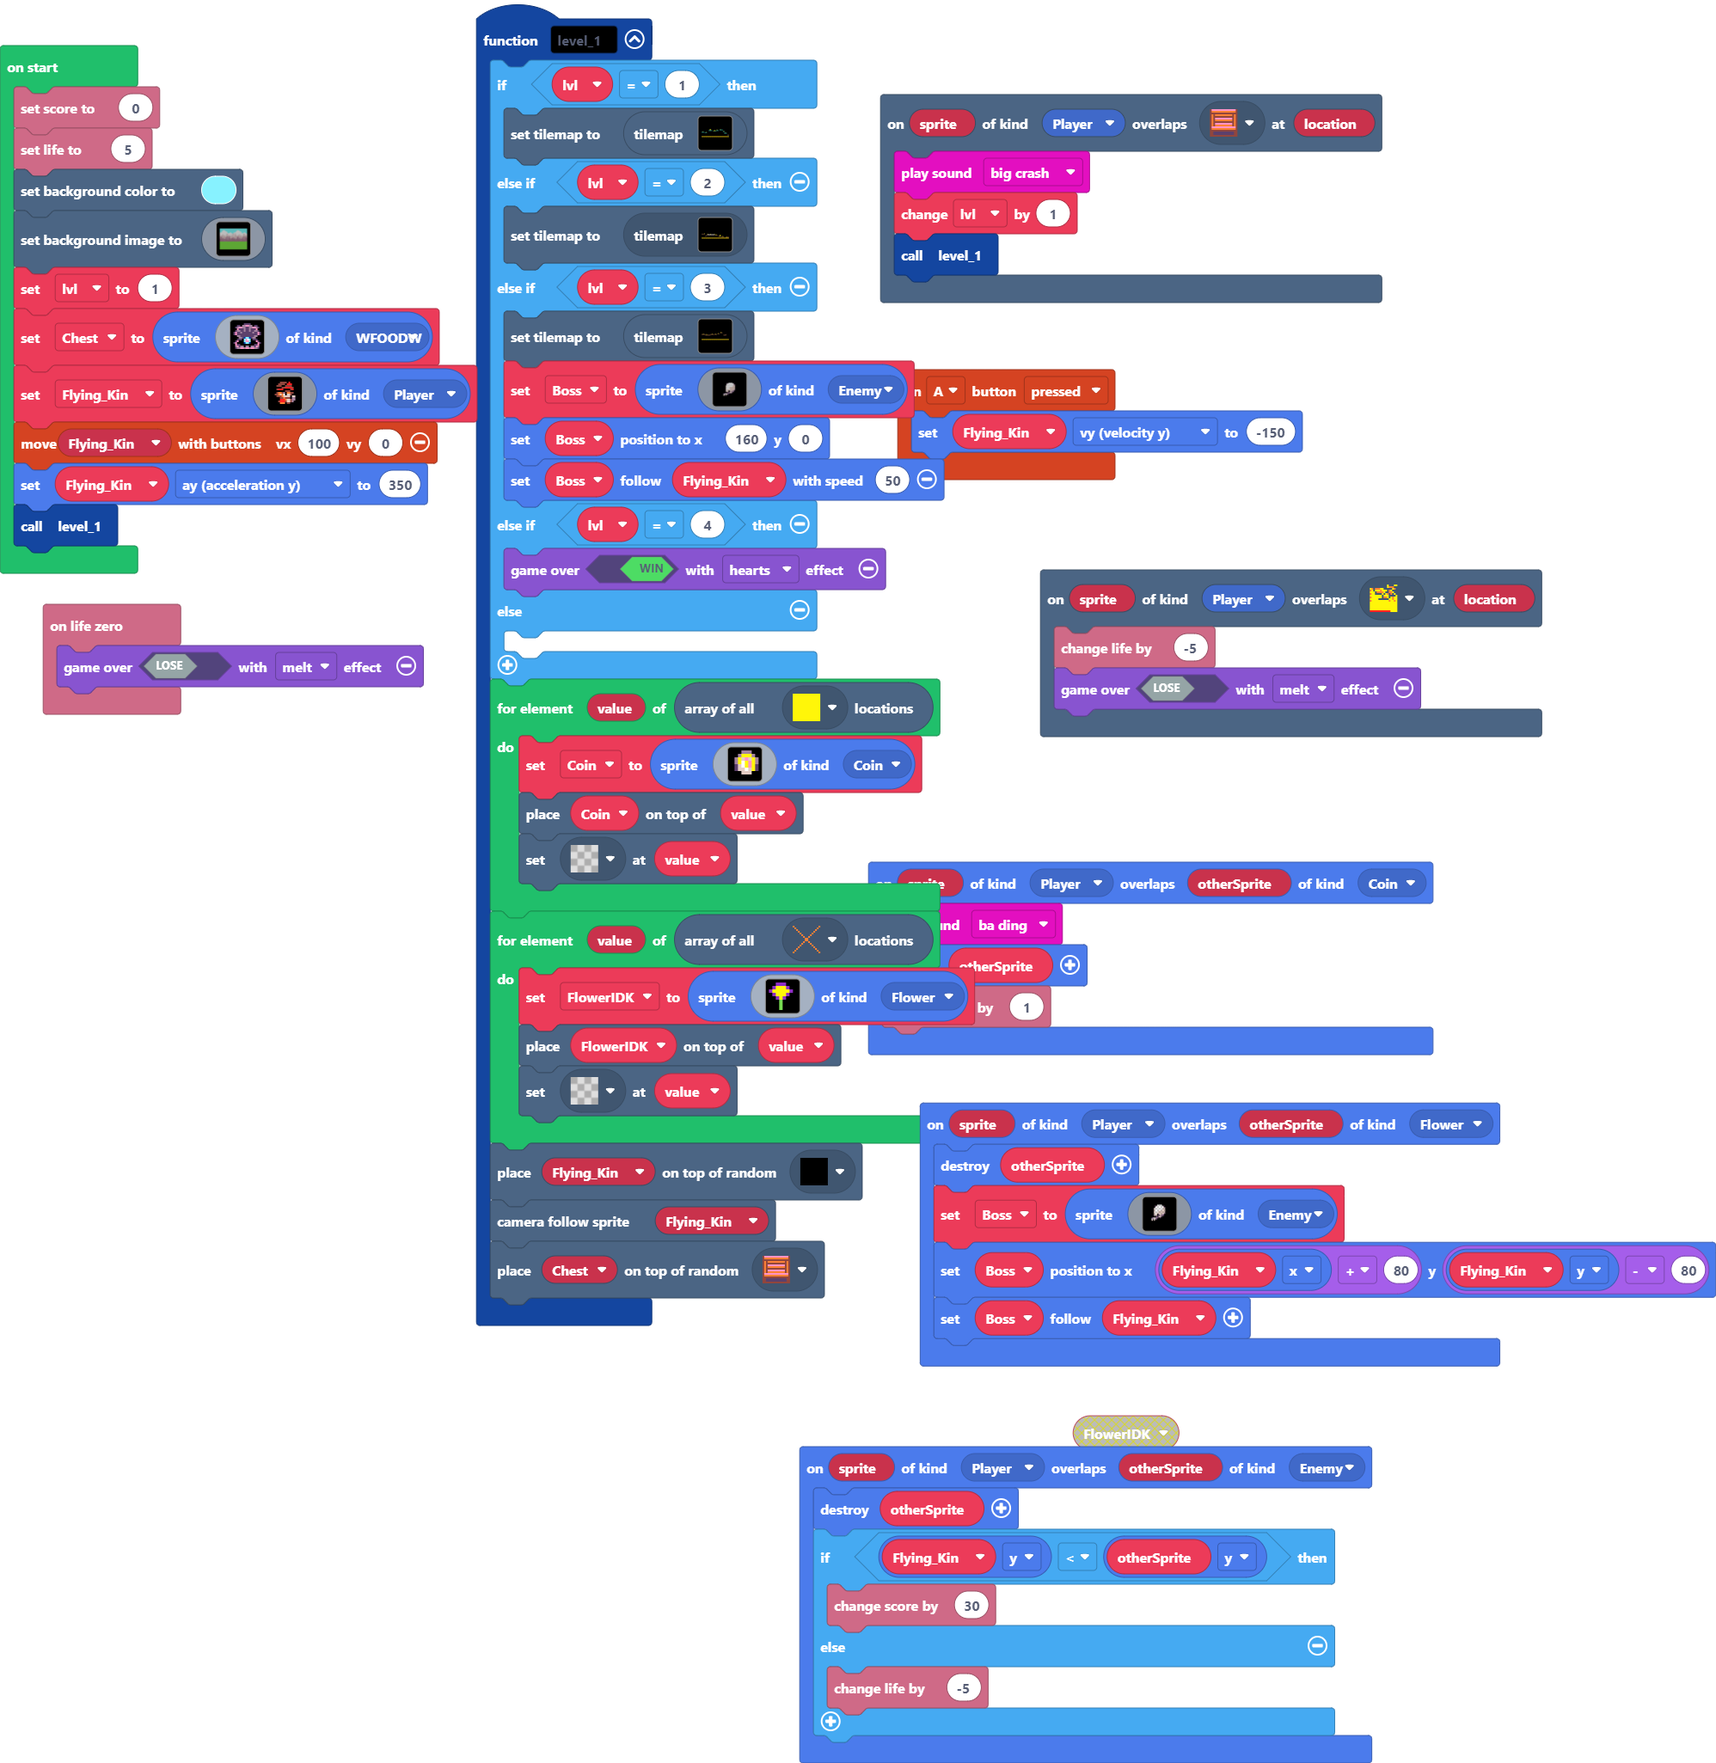
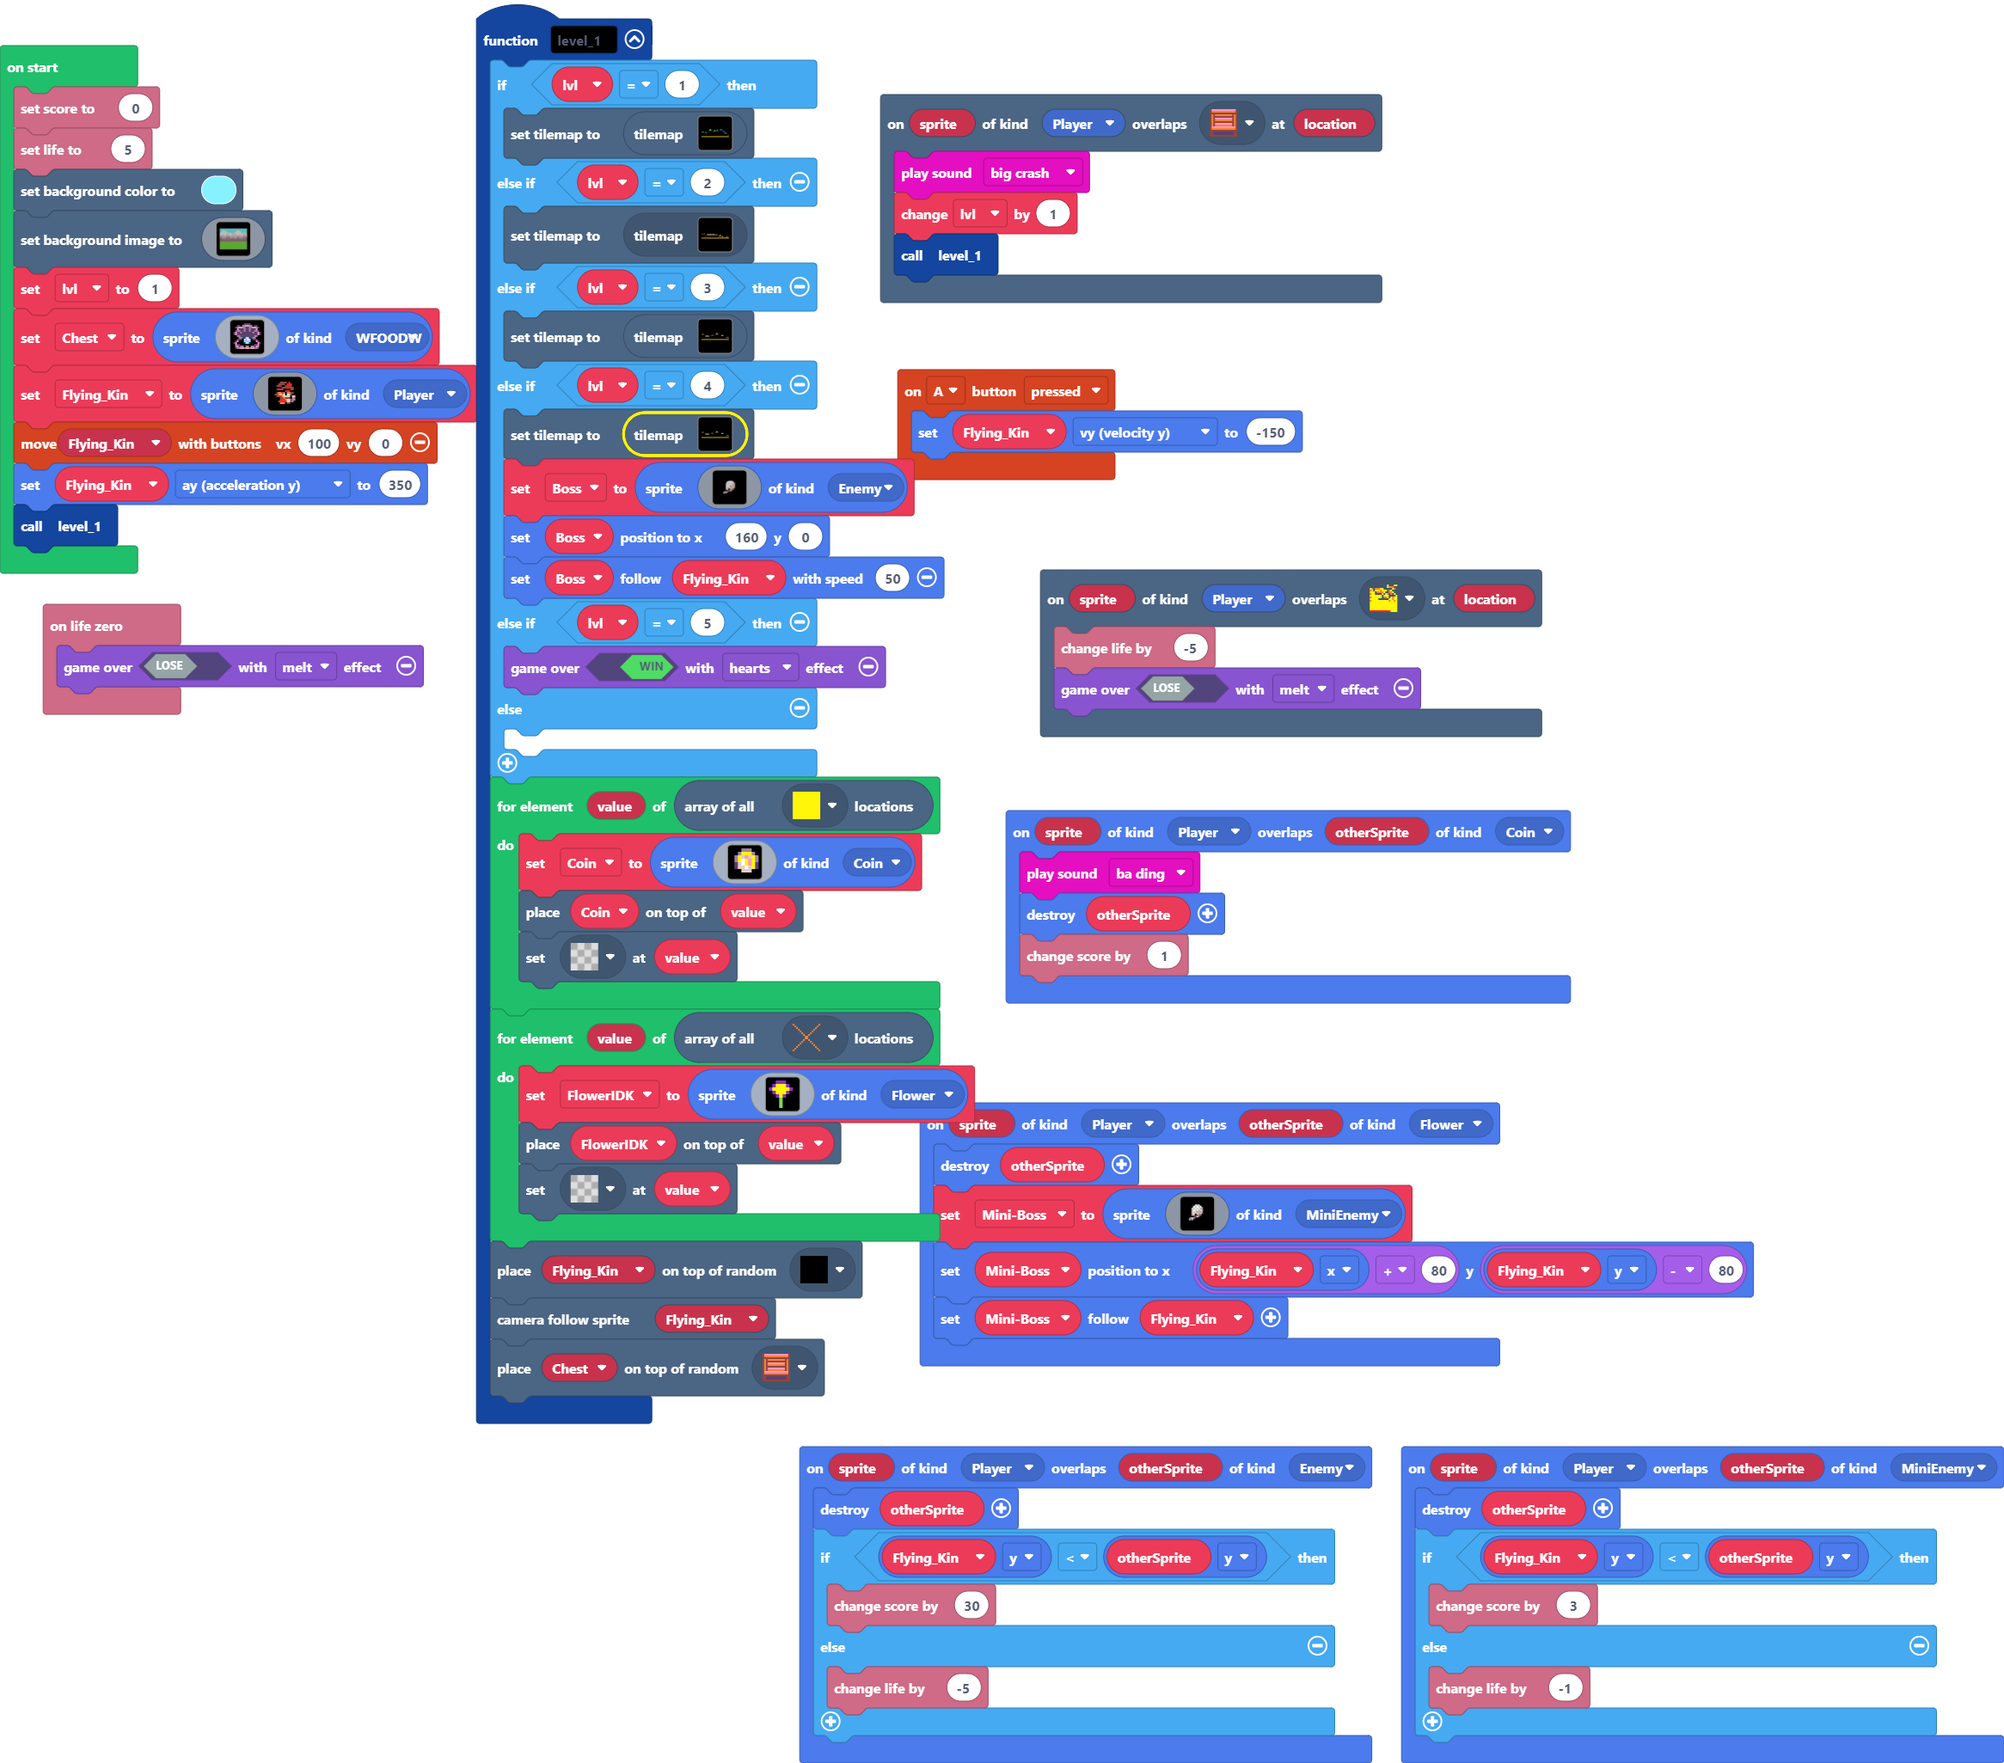
More Maps

diff --git a/tilemap.g.ts b/tilemap.g.ts
@@ -211,25 +211,6 @@ namespace myTiles {
 . . . . . . . . . . . . . . . . 
 . . . . . . . . . . . . . . . . 
 `, [myTiles.transparency16], TileScale.Sixteen);
-            case "level6":
-            case "level6":return tiles.createTilemap(hex`320010000000000000000000000000000000000000000000000000000000000000000000000000000000000000000000000000000000000000000000000000000000000000000000000000000000000000000000000000000000000000000000000000000000000000000000000000000000000000000000000000000000000000000000000000000000000000000000000000000000000000000000000000000000000000000000000000000000000000000000000000000000000000000000000000000000000000000000010000000000000000000000000000000000000000000000000000000000000000000000000000000000000000000000000000000000000000000000000000000000000000000000000000000000000000000000000000000000000000000000000000000000000000000000000000000000000000000000000000000000000000000000000000000000000000000000000000000000000000000007000000000000000000000000000000000000000000000000000000000000000000000000000000000000000002020202020200000000000700000000070000000000000700000000000000000000000000000000000000000000000000000000000000000000000003040404040404040404040404040000070000000000000000000000000000000000000000000000000000000000000000030000000000000000000000000000000202020200000000070700000000000000000000000000000000000000000000000300000000000000000000000000000000000000000000000007070000000000000000000000000000000000000000000003000000000000000000000000000000000000000000000002020202000000070000000000000000000000000000000000000000000000000000000000000000000000000000000000000000000000020202020200000000070000050000000000000000000000000000000000000000000000000000000000000000000000000000000000000000000202020202000606060606060606060606060606060606060606060606060606060606060606060606060606060606060606060606060606`, img`
-..................................................
-..................................................
-..................................................
-..................................................
-..................................................
-..................................................
-..................................................
-..................................................
-222222............................................
-..........22222222222222..........................
-.........2...............2222.....................
-........2.........................................
-.......2.......................2222...............
-....................................22222.........
-............................................22222.
-..................................................
-`, [myTiles.transparency16,myTiles.tile2,myTiles.tile3,myTiles.tile4,myTiles.tile6,myTiles.tile1,myTiles.tile5,myTiles.tile7], TileScale.Sixteen);
             case "level14":
             case "level14":return tiles.createTilemap(hex`1000100000000000000000000000000000000000000000000000000000000000000000000000000000000000000000000000000000000000000000000000000000000000000000000000000000000000000000000000000000000000000000000000000000000000000000000000000000000000000000000000000000000000000000000000000000000000000000000000000000000000000000000000000000000000000000000000000000000000000000000000000000000000000000000000000000000000000000000000000000000000000000000000000000000000000000000000000000000000000000000000000000000000000000000000000000000000`, img`
 . . . . . . . . . . . . . . . . 
@@ -268,25 +249,63 @@ namespace myTiles {
 ..................................................
 ..................................................
 `, [myTiles.transparency16,sprites.castle.tileDarkGrass3,myTiles.tile1,myTiles.tile2,sprites.builtin.forestTiles0,myTiles.tile5,myTiles.tile7], TileScale.Sixteen);
+            case "level6":
+            case "level6":return tiles.createTilemap(hex`320010000000000000000000000000000000000000000000000000000000000000000000000000000000000000000000000000000000000000000000000000000000000000000000000000000000000000000000000000000000000000000000000000000000000000000000000000000000000000000000000000000000000000000000000000000000000000000000000000000000000000000000000000000000000000000000000000000000000000000000000000000000000000000000000000000000000000000000010000000000000000000000000000000000000000000000000000000000000000000000000000000000000000000000000000000000000000000000000000000000000000000000000000000000000000000000000000000000000000000000000000000000000000000000000000000000000000000000000000000000000000000000000000000000000000000000000000000000000000000007000000000000000000000000000000000000000000000000000000000000000000000000000000000000000002020202020200000000000708000000070000000800000700000000000000000000000000000000000000000000000000000000000000000000000003040404040404040404040404040000070008000000000000000000000000000000000000000000000000000000000000030000000000000000000000000000000202020200000000070700000000000000000000000000000000000000000000000300000000000000000000000000000000000000000000000007070000000000000000000000000000000000000000000003000000000000000000000000000000000000000000000002020202000008070000000000000000000000000000000000000000000000000000000000000000000000000000000000000000000000020202020200000000070800050000000000000000000000000000000000000000000000000000000000000000000000000000000000000000000202020202000606060606060606060606060606060606060606060606060606060606060606060606060606060606060606060606060606`, img`
+..................................................
+..................................................
+..................................................
+..................................................
+..................................................
+..................................................
+..................................................
+..................................................
+222222............................................
+..........22222222222222..........................
+.........2...............2222.....................
+........2.........................................
+.......2.......................2222...............
+....................................22222.........
+............................................22222.
+..................................................
+`, [myTiles.transparency16,myTiles.tile2,myTiles.tile3,myTiles.tile4,myTiles.tile6,myTiles.tile1,myTiles.tile5,myTiles.tile7,myTiles.tile8], TileScale.Sixteen);
+            case "level15":
+            case "level15":return tiles.createTilemap(hex`1000100000000000000000000000000000000000000000000000000000000000000000000000000000000000000000000000000000000000000000000000000000000000000000000000000000000000000000000000000000000000000000000000000000000000000000000000000000000000000000000000000000000000000000000000000000000000000000000000000000000000000000000000000000000000000000000000000000000000000000000000000000000000000000000000000000000000000000000000000000000000000000000000000000000000000000000000000000000000000000000000000000000000000000000000000000000000`, img`
+. . . . . . . . . . . . . . . . 
+. . . . . . . . . . . . . . . . 
+. . . . . . . . . . . . . . . . 
+. . . . . . . . . . . . . . . . 
+. . . . . . . . . . . . . . . . 
+. . . . . . . . . . . . . . . . 
+. . . . . . . . . . . . . . . . 
+. . . . . . . . . . . . . . . . 
+. . . . . . . . . . . . . . . . 
+. . . . . . . . . . . . . . . . 
+. . . . . . . . . . . . . . . . 
+. . . . . . . . . . . . . . . . 
+. . . . . . . . . . . . . . . . 
+. . . . . . . . . . . . . . . . 
+. . . . . . . . . . . . . . . . 
+. . . . . . . . . . . . . . . . 
+`, [myTiles.transparency16], TileScale.Sixteen);
             case "level7":
-            case "level7":return tiles.createTilemap(hex`320010000000000000000000000000000000000000000000000000000000000000000000000000000000000000000000000000000000000000000000000000000000000000000000000000000000000000000000000000000000000000000000000000000000000000000000000000000000000000000000000000000000000000000000000000000000000500000000000000000000000000000100000000000000000000000000000000000000000000000000000000000000000002020202000000000000000000000000000000000000000000000000000000000000000000000000000000000000050000000000000000000000000000000000000000000005000000000000000000000000000000050000000000050000000202020200000000000000000000000000000000000202020202020200000500000000000002020202020202000202020200000000000000000000000000000000040000000000000000000000000202020202020202020000000000000000000000000000000000000000000000000202020202000000000000000000000000000000000000000000000000000000000000000000000000000000000000000000000000000000000000000000000000000000000000000000000000000000000000000000000000000000000000000000000000000000000000000000000000000000000000000000000000000000000000000000000000000000000000000000000000000000000000000000000000000000000000000000000000000000000000000000000000000000000000000000000000000000000000000000000000000000000000000000000000000000000000000000000000000000000000000000000000000000000000000000000000000000000000000000000000000000000000000000000000000000000000000000000000000000000000000000000000000000000000000000000000000000000000000000000000000000000000000000000000000000000000000000000000000000000000000303030303030303030303030303030303030303030303030303030303030303030303030303030303030303030303030303`, img`
-..................................................
-..................................................
-..................................................
-..................................2222............
-..................................................
-.............................2222.................
-2222222.........2222222.2222......................
-.......222222222........................22222.....
+            case "level7":return tiles.createTilemap(hex`320010000400000000000000000000000000000000000000000000000000000000000000000000000000000000000000000000000000000000000000000000000000000000000000000000000000000000000000000000000000000000000000000000000000000000000000000000000000000000000000000000000000000000000000000000000000000000000000000000000000000000000000000000000000000000000000000000000000000000000000000000000000000000000000000000000000000000000000000000000000000000000000000000000000000000000000000000060600000000000000000000000000000000000000000000000600000000000000000000000000000000000000000000000006060000000000000000000000000000000000000000000202020202000000000000000000000000000000000000000002020202020200000000000000000000000000000000000000000000000000000000000000000000000000000600000000000000000000000000000000000600000000000000000000000000000000000000000006000000000000000202020202020000000000000000000000000005050505000000000000000000000000000000000005050505050505000000000000000000000000000000000000000000000000000000000000000000000000000000000000000000000000000000000000000000000000000000000000000000000000000000000000000000000000000000000000000000000000000000000000000000000000000000000000000000000000000000000000000000000000060000030000000000000000000000000000000000000000000000000000000000000000000000000000000000000000000202020202000000000000000000000000000000000000000000000000000000000000000000000000000000000000000000000000000000000000000000000000000000000000000000000000000000000000000000000000000000000000000000000000000000000101010101010101010101010101010101010101010101010101010101010101010101010101010101010101010101010101`, img`
 ..................................................
 ..................................................
 ..................................................
 ..................................................
 ..................................................
 ..................................................
+22222....................222222...................
+..................................................
+.................222222.............2222..........
+.......2222222....................................
 ..................................................
 ..................................................
-`, [myTiles.transparency16,myTiles.tile2,myTiles.tile3,myTiles.tile5,myTiles.tile1,myTiles.tile7], TileScale.Sixteen);
+.............................................22222
+..................................................
+..................................................
+..................................................
+`, [myTiles.transparency16,myTiles.tile5,myTiles.tile3,myTiles.tile1,myTiles.tile2,myTiles.tile6,myTiles.tile7], TileScale.Sixteen);
         }
         return null;
     })

diff --git a/main.ts b/main.ts
@@ -3,6 +3,7 @@ namespace SpriteKind {
     export const Start = SpriteKind.create()
     export const Coin = SpriteKind.create()
     export const Flower = SpriteKind.create()
+    export const MiniEnemy = SpriteKind.create()
 }
 sprites.onOverlap(SpriteKind.Player, SpriteKind.Coin, function (sprite, otherSprite) {
     music.baDing.play()
@@ -21,9 +22,17 @@ scene.onOverlapTile(SpriteKind.Player, assets.tile`myTile3`, function (sprite, l
     info.changeLifeBy(-5)
     game.over(false, effects.melt)
 })
+sprites.onOverlap(SpriteKind.Player, SpriteKind.MiniEnemy, function (sprite, otherSprite) {
+    otherSprite.destroy()
+    if (Flying_Kin.y < otherSprite.y) {
+        info.changeScoreBy(3)
+    } else {
+        info.changeLifeBy(-1)
+    }
+})
 sprites.onOverlap(SpriteKind.Player, SpriteKind.Flower, function (sprite, otherSprite) {
     otherSprite.destroy()
-    Boss = sprites.create(img`
+    MiniBoss = sprites.create(img`
         ........................
         ........................
         ........................
@@ -48,9 +57,9 @@ sprites.onOverlap(SpriteKind.Player, SpriteKind.Flower, function (sprite, otherS
         ........................
         ........................
         ........................
-        `, SpriteKind.Enemy)
-    Boss.setPosition(Flying_Kin.x + 80, Flying_Kin.y - 80)
-    Boss.follow(Flying_Kin)
+        `, SpriteKind.MiniEnemy)
+    MiniBoss.setPosition(Flying_Kin.x + 80, Flying_Kin.y - 80)
+    MiniBoss.follow(Flying_Kin)
 })
 info.onLifeZero(function () {
     game.over(false, effects.melt)
@@ -61,6 +70,8 @@ function level_1 () {
     } else if (lvl == 2) {
         tiles.setCurrentTilemap(tilemap`level6`)
     } else if (lvl == 3) {
+        tiles.setCurrentTilemap(tilemap`level7`)
+    } else if (lvl == 4) {
         tiles.setCurrentTilemap(tilemap`level7`)
         Boss = sprites.create(img`
             ..................................................
@@ -116,7 +127,7 @@ function level_1 () {
             `, SpriteKind.Enemy)
         Boss.setPosition(160, 0)
         Boss.follow(Flying_Kin, 50)
-    } else if (lvl == 4) {
+    } else if (lvl == 5) {
         game.over(true, effects.hearts)
     } else {
     	
@@ -164,6 +175,7 @@ sprites.onOverlap(SpriteKind.Player, SpriteKind.Enemy, function (sprite, otherSp
 let FlowerIDK: Sprite = null
 let Coin: Sprite = null
 let Boss: Sprite = null
+let MiniBoss: Sprite = null
 let Flying_Kin: Sprite = null
 let Chest: Sprite = null
 let lvl = 0
